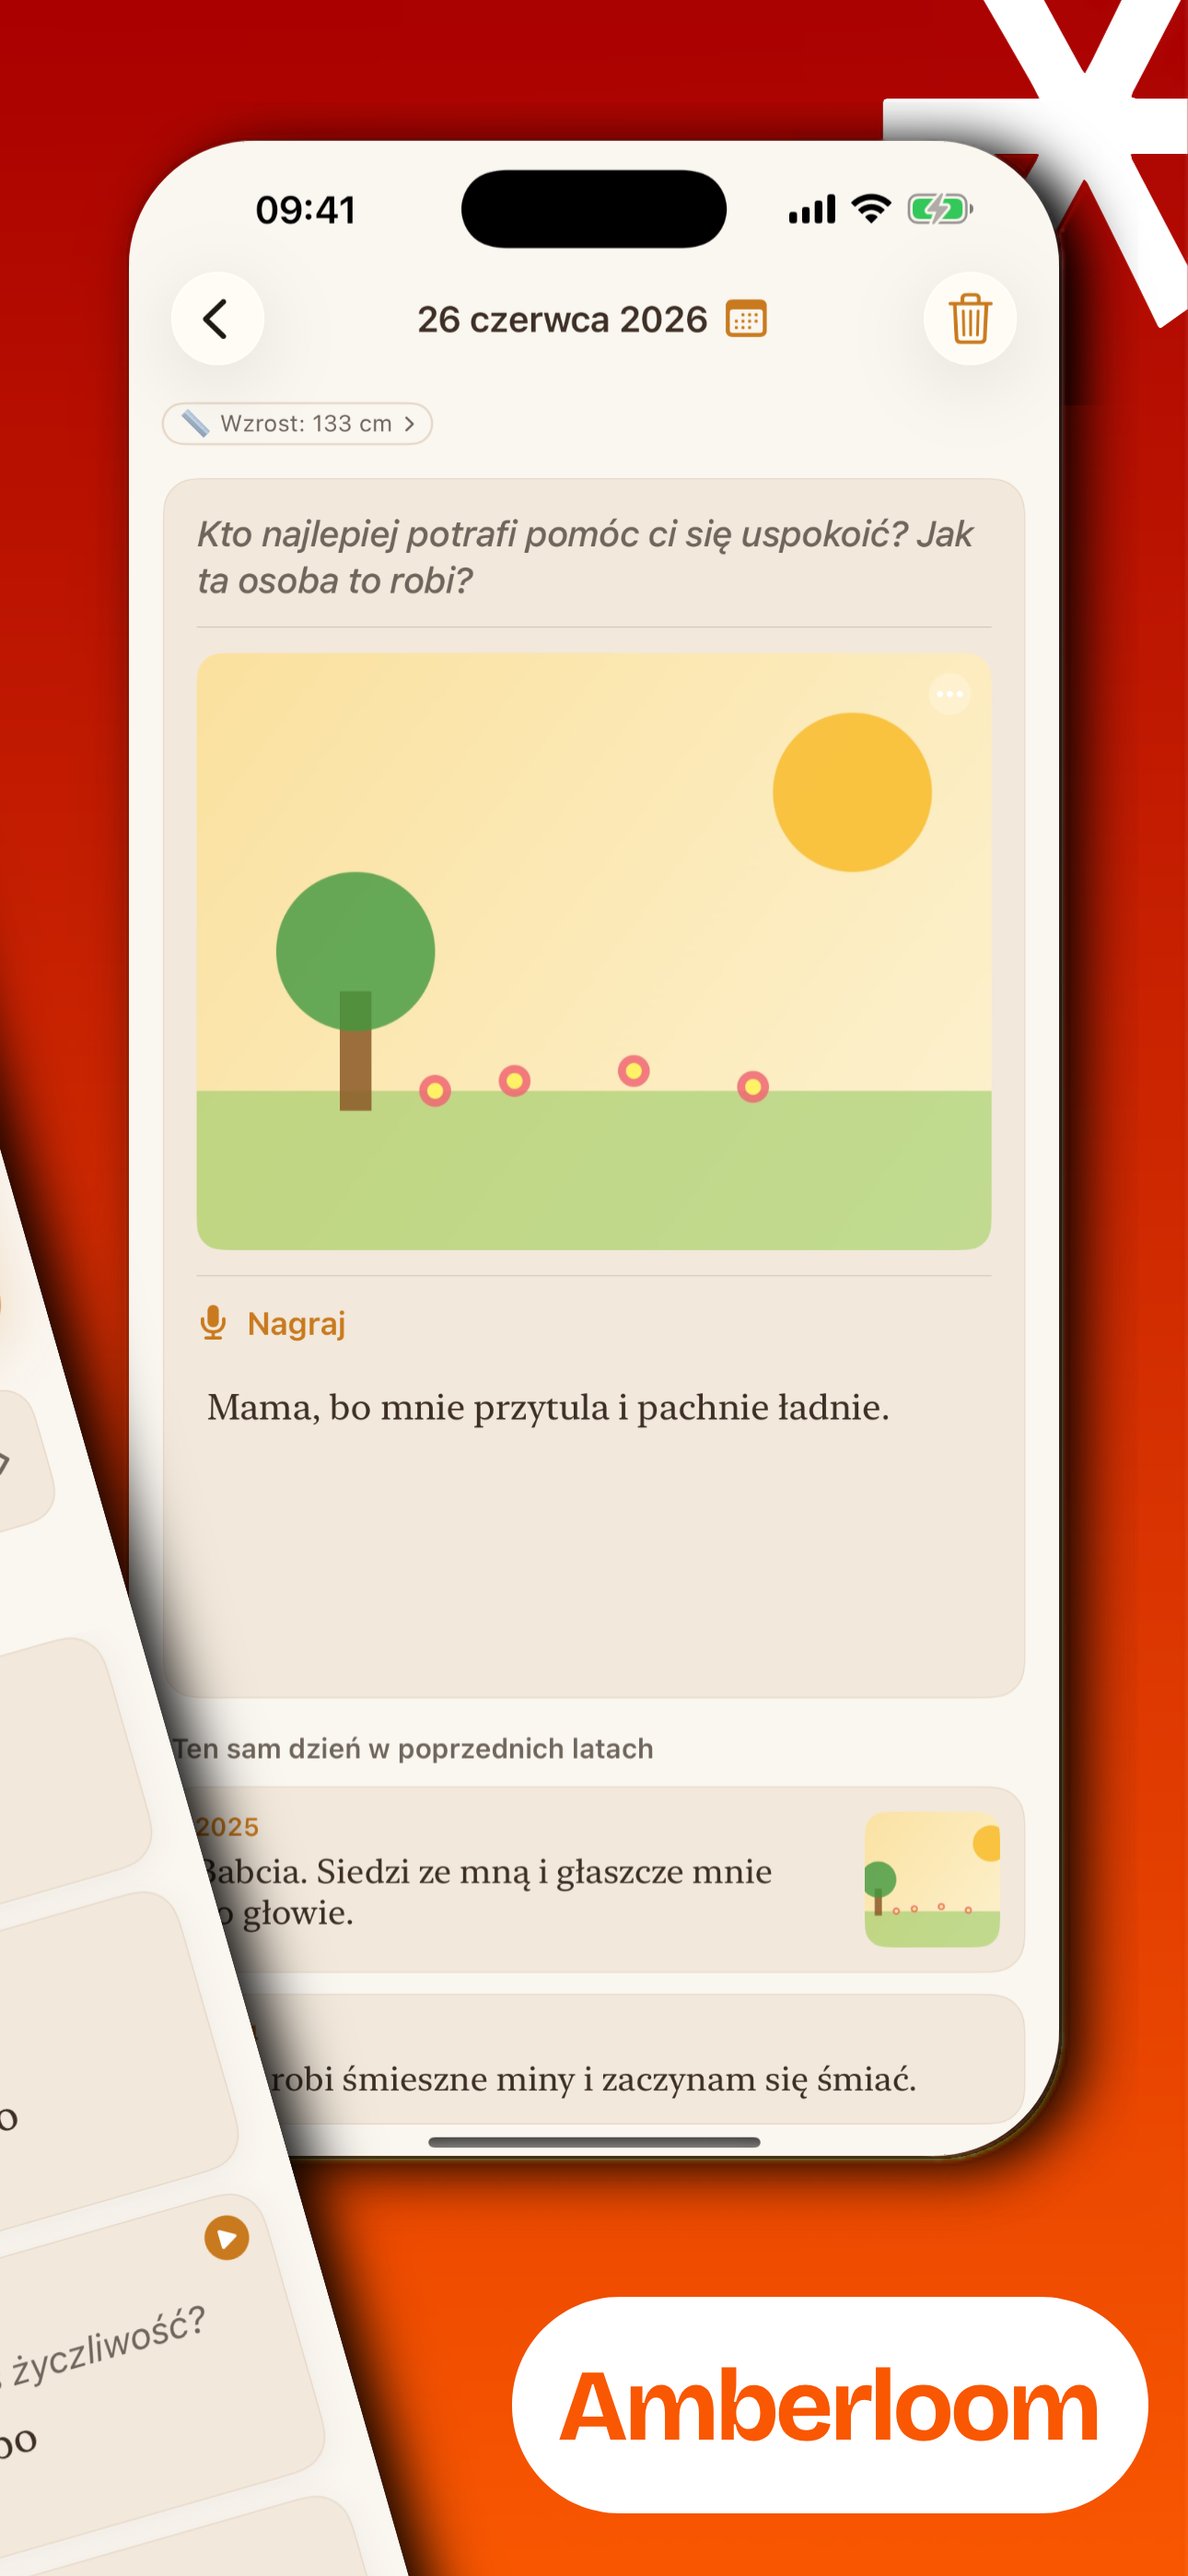
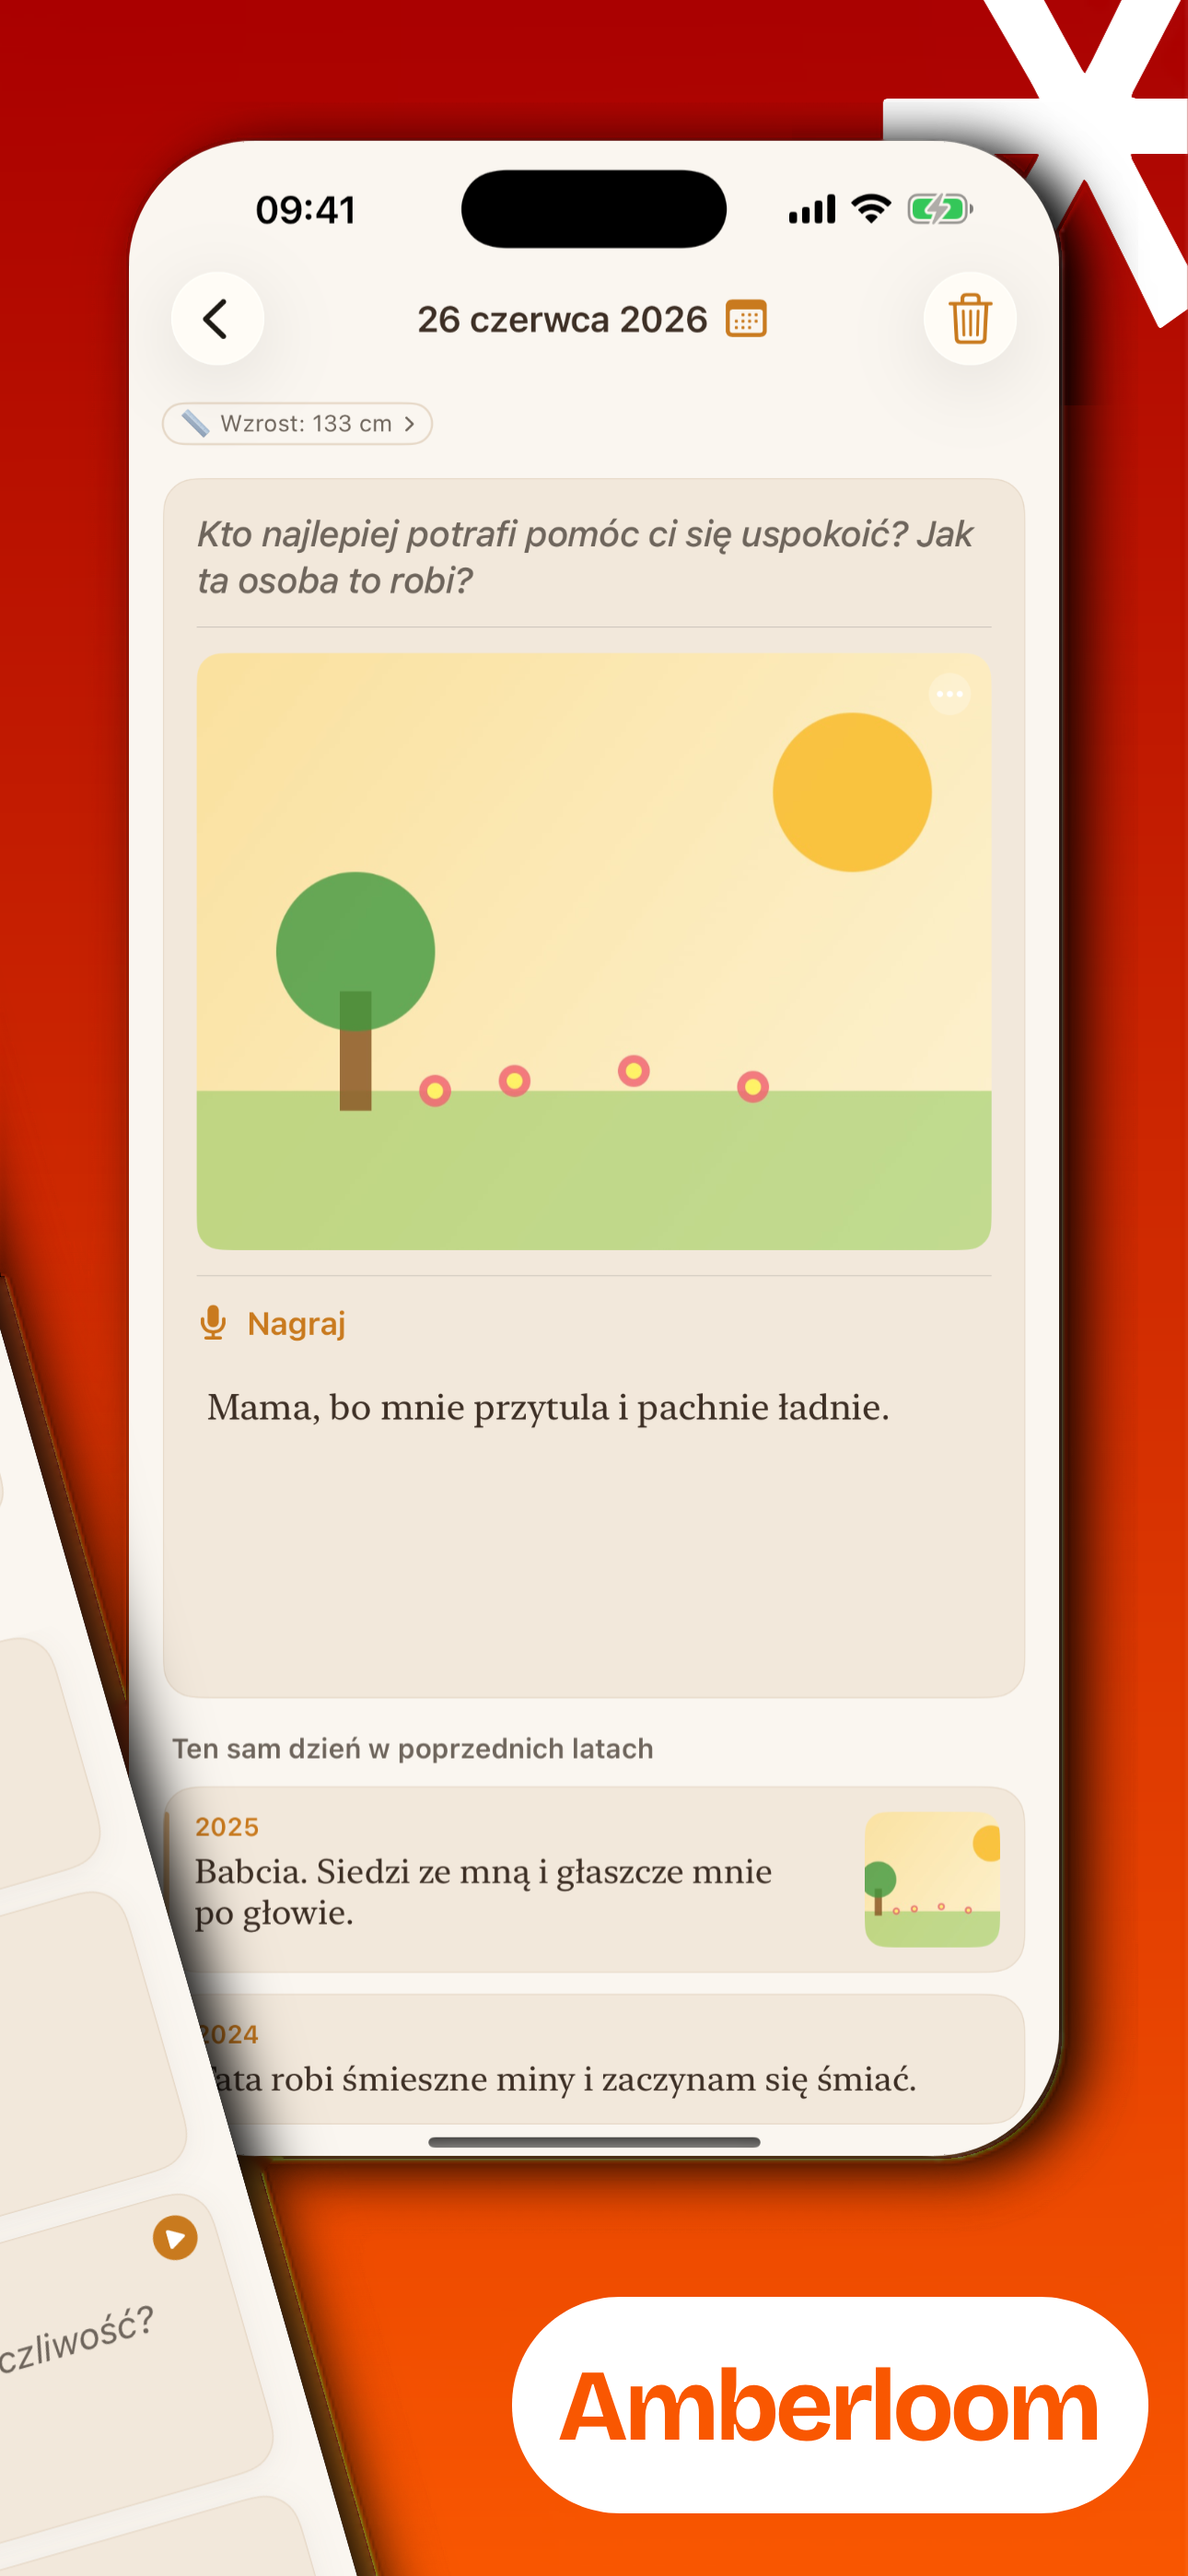
Pages 1-2: leave the App Store's gap between screenshots
The App Store shows screenshots side by side with a gap, so page 1's tilted
phone has to continue on page 2 as if the pages were 56 px apart (33 px gap
per 760 px screenshot), not touching.

Claude-Session: https://claude.ai/code/session_01RysN6u6ztiAhNhJ4pBs71C

Changed region(s): [[0.0, 0.3734, 0.4031, 1.0]]

diff --git a/design/screenshots-1.1/build_phones.py b/design/screenshots-1.1/build_phones.py
@@ -97,6 +97,10 @@ def compose(layer, content, region, edges=()):
 # Soft drop shadow (blur sigma, x and y offset, strength), fitted to the template's own phone shadow.
 SHADOW = (31, 24, 12, 1.0)
 MARGIN = 160
+# The App Store shows the screenshots side by side with a gap between them, about 33 px for a
+# 760 px wide screenshot on an iPhone, so 56 px at 1290. Page 2 sits that far right of page 1 on the
+# shared canvas, so the tilted phone lines up across the gap, not across a seamless join.
+GAP = 56
 
 
 def shadow_of(mask):
@@ -120,14 +124,15 @@ def seam_pages(lang, shots, pos, tl, ex, ey, width):
     two-page canvas (with a margin, so parts off the page still cast shadows), then cut into the
     two layers: back phone shadow, back phone, tilted phone shadow, tilted phone."""
     page_w, page_h, m = 1290, 2796, MARGIN
-    size = (2 * page_w + 2 * m, page_h + 2 * m)
+    size = (2 * page_w + GAP + 2 * m, page_h + 2 * m)
+    p2x = page_w + GAP  # page 2's left edge on the canvas
     canvas = np.zeros((size[1], size[0], 4), np.float32)
     black = np.zeros(3, np.float32)
 
     # page 2's phone: x 140-1149, y 42-2226 of its layer
     p2 = pos[f"{lang}2"]
-    x0, y0 = page_w + p2["left"] + 140 + m, p2["top"] + 42 + m
-    x1, y1 = page_w + p2["left"] + 1149 + m, p2["top"] + 2226 + m
+    x0, y0 = p2x + p2["left"] + 140 + m, p2["top"] + 42 + m
+    x1, y1 = p2x + p2["left"] + 1149 + m, p2["top"] + 2226 + m
     pw = x1 - x0 + 1
     back = warp(shots[PAGES[2]], (x0, y0), (1, 0), (0, 1), pw, size).astype(np.float32)
     back_mask = rounded_mask((size[1], size[0]), x0, y0, x1, y1, int(round(pw * 0.135))).astype(np.float32) / 255
@@ -149,7 +154,7 @@ def seam_pages(lang, shots, pos, tl, ex, ey, width):
     p1 = pos[f"{lang}1"]
     l1 = out[m + p1["top"]: m + p1["top"] + p1["height"], m + p1["left"]: m + p1["left"] + p1["width"]]
     l2 = out[m + p2["top"]: m + p2["top"] + p2["height"],
-             m + page_w + p2["left"]: m + page_w + p2["left"] + p2["width"]]
+             m + p2x + p2["left"]: m + p2x + p2["left"] + p2["width"]]
     return {1: l1, 2: l2}
 
 
